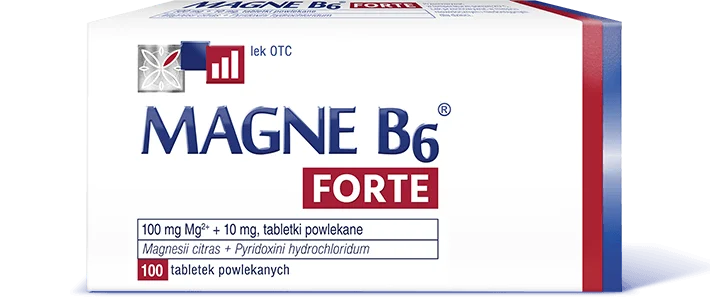
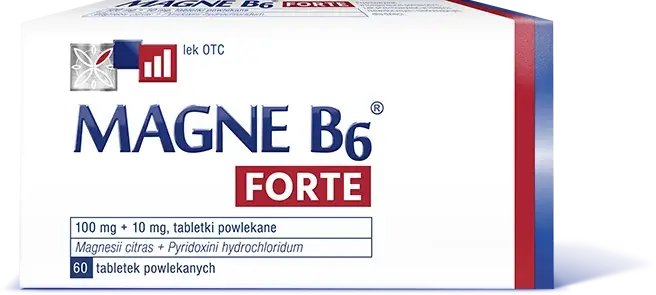
subst img, alt txts, kv packshot 60

Changed region(s): [[0.0915, 0.122, 0.6402, 0.7017], [0.122, 0.0, 0.9756, 1.0], [0.0, 0.7322, 0.6402, 1.0]]

diff --git a/index.html b/index.html
@@ -4,7 +4,7 @@
     <meta charset="UTF-8">
     <meta http-equiv="X-UA-Compatible" content="IE=edge">
     <meta name="viewport" content="width=device-width, initial-scale=1.0">
-    <title>Magne B6</title>
+    <title>Magne B6 60</title>
     <link rel="stylesheet" href="style.css" />
   </head>
   <body>
@@ -13,13 +13,12 @@
       <div class="es-kv">
         <div class="es-kv__container">
           <div class="es-kv__background">
-            <img src="./static/img/kv-bg.webp" loading="lazy" alt="" class="es-kv__img es-kv__bg">
+            <img src="./static/img/kv-bg.webp" loading="lazy" alt="Jaki magnez wybrać? Jaki magnez jest najlepiej przyswajalny? Taki, który zawiera cytrynian magnezu i wit B6." class="es-kv__img es-kv__bg">
           </div>
           <p class="es-kv__title">W Tobie <br> jest siła!</p>
           <p class="es-kv__subtitle">Wzmacniaj ją podwójną <br> dawką magnezu<sup class="es-index">6</sup></p>
           <div class="es-kv__packshot">
-            <img src="./static/img/kv-packshot.webp" loading="lazy" alt="Lek Magne B6 Forte uzupełnia poziom magnezu i pomaga radzić sobie z objawami niedoboru magnezu w organizmie" class="es-kv__img es-kv__img--packshot" />
-            <img src="./static/img/kv-badge.webp" loading="lazy" alt="Lek Magne B6 Forte, 100 tabletek powlekanych bez recepty - do kupienia w aptece internetowej i stacjonarnie w aptekach" class="es-kv__img es-kv__badge" />
+            <img src="./static/img/kv-packshot.webp" loading="lazy" alt="Leki na uspokojenie bez recepty online; magnez lek Magne B6 Forte, 60 tabletek powlekanych, na objawy niedoboru magnezu." class="es-kv__img es-kv__img--packshot" />
           </div>
         </div>
         <p class="es-kv__text">Magnez nr 1 w&nbsp;Polsce<sup class="es-index">1</sup></p>
@@ -36,23 +35,23 @@
       <div class="es-features">
         <div class="es-features__content">
           <div class="es-features__single">
-              <img src="./static/img/feature-1.webp" loading="lazy" alt="Dawkowanie magnezu Magne B6 Forte,100 tabletek: 6 do 8 tabletek na dobę w 2 lub 3 dawkach podzielonych" class="es-features__img">
-              <p class="es-features__text">Opakowanie Magne B<sub class="es-index">6</sub> Forte 100 tabletek wystarcza na miesiąc stosowania. </p>
+              <img src="./static/img/feature-1.webp" loading="lazy" alt="Na jak długo wystarczy jedno opakowanie leku Magne B6 Forte, 60 tabletek powlekanych na stres i nerwy?" class="es-features__img">
+              <p class="es-features__text">Opakowanie Magne B<sub class="es-index">6</sub> Forte 60 zawiera wysoce przyswajalny magnez<sup class="es-index">5</sup> (cytrynian magnezu).</p>
           </div>
           <div class="es-features__single">
-              <img src="./static/img/feature-2.webp" loading="lazy" alt="Magne B6 Forte i Magne B6 to leki z magnezem. Jeśli szukasz suplementu diety, wypróbuj Magne B6 Zmęczenie i Stres" class="es-features__img">
+              <img src="./static/img/feature-2.webp" loading="lazy" alt="Magnez B6 lek nie jest suplementem diety. Dostępny online, do kupienia w aptece internetowej." class="es-features__img">
               <p class="es-features__text">Magne B<sub class="es-index">6</sub> Forte jest lekiem, a nie suplementem diety. </p>
           </div>
           <div class="es-features__single">
-              <img src="./static/img/feature-3.webp" loading="lazy" alt="Lek Magne B6 Forte dostarcza największą dzienną dawkę magnezu w porównaniu z lekiem Magne B6" class="es-features__img">
+              <img src="./static/img/feature-3.webp" loading="lazy" alt="Magne B6 Forte, magnez w tabletkach dostarcza największą dzienną dawkę magnezu w porównaniu z lekiem Magne B6." class="es-features__img">
               <p class="es-features__text">Magne B<sub class="es-index">6</sub> Forte zawiera najwyższą dawkę magnezu.<sup class="es-index">3</sup></p>
           </div>
           <div class="es-features__single">
-              <img src="./static/img/feature-4.webp" loading="lazy" alt="Jaki jest dobry lek z magnezem dla dzieci? Wypróbuj Magne B6 Forte lub Magne B6, opakowanie zawiera 100 tabletek" class="es-features__img">
+              <img src="./static/img/feature-4.webp" loading="lazy" alt="Magnez lek bez recepty Magne B6 Forte na skurcze mięśni i niepokój to lek dla dorosłych i dla dzieci." class="es-features__img">
               <p class="es-features__text">Magne B<sub class="es-index">6</sub> Forte jest odpowiedni do stosowania u osób powyżej szóstego roku życia.</p>
           </div>
         </div>
-        <img src="./static/img/picture-1.webp" loading="lazy" alt="Uśmiechnięta rodzina. Lek Magne B6 Forte pomaga na objawy niedoboru magnezu. Do kupienia online w aptece internetowej" class="es-features__img">
+        <img src="./static/img/picture-1.webp" loading="lazy" alt="Jakie są dobre tabletki na stres i nerwy? Kup Magne B6 Forte na wahania nastroju, niepokój, drganie powiek i kołatanie serca." class="es-features__img">
       </div>
   
       <div class="es-benefits">
@@ -60,13 +59,13 @@
         <div class="es-benefits__content">
           <div class="es-benefits__single">
             <div class="es-benefits__circle">
-              <img src="./static/img/icon-1.webp" loading="lazy" alt="" class="es-benefits__icon">
+              <img src="./static/img/icon-1.webp" loading="lazy" alt="Magnez i witamina B6 w tabletkach, na objawy niedoboru magnezu, takie jak zaburzenia snu i łagodny lęk." class="es-benefits__icon">
             </div>
             <p class="es-benefits__text">chroni przed stresem <br> i&nbsp;zmęczeniem<sup class="es-index">8</sup></p>
           </div>
           <div class="es-benefits__single">
             <div class="es-benefits__circle">
-              <img src="./static/img/icon-2.webp" loading="lazy" alt="" class="es-benefits__img es-benefits__icon">
+              <img src="./static/img/icon-2.webp" loading="lazy" alt="Na ciągły stres i zmęczenie pomaga także ashwagandha, którą znajdziesz w suplemencie diety Magne B6 Zmęczenie i Stres." class="es-benefits__img es-benefits__icon">
             </div>
             <p class="es-benefits__text">poprawia pamięć <br> i&nbsp;koncentrację<sup class="es-index">8</sup></p>
           </div>
@@ -98,7 +97,7 @@
         <p class="es-symptoms__title">ZWRÓĆ UWAGĘ <br> NA MOŻLIWE OBJAWY <br> NIEDOBORU MAGNEZU</p>
           <div class="es-symptoms__container">
             <div class="es-symptoms__picture">
-              <img src="./static/img/human.webp" loading="lazy" alt="Jakie są objawy niedoboru magnezu? Lek Magne B6 Forte 100 tabletek do kupienia online w aptece internetowej" class="es-symptoms__img es-symptoms__human"/>
+              <img src="./static/img/human.webp" loading="lazy" alt="Brak magnezu - objawy. Na stres dobra jest aszwaganda zawarta w suplemencie diety Magne B6 Zmęczenie i Stres." class="es-symptoms__img es-symptoms__human"/>
             </div>
             <div class="es-symptoms__signs">
                 <p class="es-symptoms__sign es-symptoms__sign--1">Zaburzenia snu w&nbsp;niewielkim nasileniu <br><br>Mrowienie, drganie powiek<br><br>Wahania nastroju</p>
@@ -171,7 +170,7 @@
               <p class="es-dose__desc">Dorośli</p>
               <div class="es-dose__single">
                   <div class="es-dose__circle">
-                    <img src="./static/img/icon-7.webp" loading="lazy" alt="Jaka jest zalecana dzienna dawka magnezu Magne B6 Forte i Magne B6 dla dzieci i młodzieży? " class="es-dose__img es-dose__icon">
+                    <img src="./static/img/icon-7.webp" loading="lazy" alt="Jaki magnez wybrać? Jaka jest dzienna dawka magnezu dla dorosłych? Czy kawa wypłukuje magnez?" class="es-dose__img es-dose__icon">
                   </div>
                   <p class="es-dose__text"><span class="es-dose__span">3-4 </span>tabletki</p>
               </div>
@@ -180,14 +179,14 @@
               <p class="es-dose__desc">Dzieci i&nbsp;młodzież</p>
               <div class="es-dose__single">
                 <div class="es-dose__circle">
-                  <img src="./static/img/icon-7.webp" loading="lazy" alt="" class="es-dose__img es-dose__icon">
+                  <img src="./static/img/icon-7.webp" loading="lazy" alt="Magne B6 Forte 60 tabletek powlekanych. Magnez dla dzieci w tabletkach, dzienna dawka." class="es-dose__img es-dose__icon">
                 </div>
                 <p class="es-dose__text"><span class="es-dose__span">2-4 </span>tabletki</p>
               </div>
             </div>
           </div>
           <p class="es-dose__subtitle">Dawkowanie na dobę, w&nbsp;2-3 dawkach podzielonych, podczas posiłku<sup class="es-index">4</sup></p>
-          <img src="./static/img/picture-2.webp" loading="lazy" alt="Na zmęczenie i stres wypróbuj także adaptogeny takie, jak aszwaganda. Magne B6 Zmęczenie i Stres" class="es-dose__img">
+          <img src="./static/img/picture-2.webp" loading="lazy" alt="Magnez B6 lek na tyowe i nietypowe objawy niedoboru magnezu, takie jak skurcze mięśni, kołatanie serca i zmęczenie." class="es-dose__img">
           <div class="es-choose">
             <p class="es-choose__title">Jak wybrać <br> i&nbsp;prawidłowo <br> przyjmować magnez?</p>
             <div class="es-choose__content">
@@ -227,7 +226,7 @@
           <div class="es-ingredients__content">
             <div class="es-ingredients__single">
                 <div class="es-ingredients__circle">
-                  <img src="./static/img/icon-9.webp" loading="lazy" alt="" class="es-ingredients__icon">
+                  <img src="./static/img/icon-9.webp" loading="lazy" alt="Jaki magnez w tabletkach jest najlepiej przyswajalny? Magnez i witamina B6." class="es-ingredients__icon">
                 </div>
                 <p class="es-ingredients__text"><b>Wysoce przyswajalny <br> magnez<sup class="es-index">5</sup></b> – <span class="es-ingredients__span">2x więcej <br> magnezu</span> w&nbsp;1 tabletce<sup class="es-index">6</sup></p>
             </div>
@@ -291,17 +290,17 @@
           <p class="es-cross__subtitle">Sprawdź leki bez recepty</p>
           <div class="es-cross__content">
             <div class="es-cross__single">
-              <img src="./static/img/cross-1.webp" loading="lazy" alt="Magnez lek bez recepty, nie tylko na skurcze. Na braki magnezu pomaga Magne B6 Forte, 60 tabletek powlekanych" class="es-cross__img">
+              <img src="./static/img/cross-1.webp" loading="lazy" alt="Magne B6 Forte lek z magnezem w postaci tabletek powlekanych, 60 tabletek, do kupienia w aptece internetowej." class="es-cross__img">
               <p class="es-cross__name">Magne B<sub class="es-index">6</sub> FORTE <br> 100 tabl.</p>
               <a href="https://www.ceneo.pl/130891134" target="_blank" class="es-cross__btn">Sprawdź</a>
             </div>
             <div class="es-cross__single">
-              <img src="./static/img/cross-2.webp" loading="lazy" alt="Magnez lek bez recepty, nie tylko na skurcze. Na braki magnezu pomaga Magne B6 Forte, 60 tabletek powlekanych" class="es-cross__img">
+              <img src="./static/img/cross-2.webp" loading="lazy" alt="Jakie leki na uspokojenie bez recepty? Magne B6 Forte bez recepty na objawy niedoboru magnezu: łagodny lęk i niepokój." class="es-cross__img">
               <p class="es-cross__name">Magne B<sub class="es-index">6</sub> FORTE <br> 60 tabl.</p>
               <a href="https://www.ceneo.pl/59150522" target="_blank" class="es-cross__btn">Sprawdź</a>
             </div>
             <div class="es-cross__single">
-              <img src="./static/img/cross-3.webp" loading="lazy" alt="Leki z magnezem pomagają na objawy niedoboru magnezu: kołatanie serca, lęk i drganie powiek. Do kupienia w aptece internetowej" class="es-cross__img">
+              <img src="./static/img/cross-3.webp" loading="lazy" alt="Uzupełnij poziom magnezu dzięki Magne B6 Forte, 60 tabletek na uspokojenie bez recepty. Do kupienia online w aptece." class="es-cross__img">
               <p class="es-cross__name">Magne B<sub class="es-index">6</sub> <br> 100 tabl.</p>
               <a href="https://www.ceneo.pl/116158638" target="_blank" class="es-cross__btn">Sprawdź</a>
             </div>
@@ -309,7 +308,7 @@
           <p class="es-cross__subtitle">Sprawdź suplement diety</p>
           <div class="es-cross__content">
             <div class="es-cross__single">
-              <img src="./static/img/cross-4.webp" loading="lazy" alt="Ashwagandha, co to jest? Sprawdź suplement diety Magne B6 Zmęczenie i Stres 30 tabletek powlekanych" class="es-cross__img">
+              <img src="./static/img/cross-4.webp" loading="lazy" alt="Suplement diety Magne B6 Forte Zmęczenie i Stres zawiera adaptogen. Ashwagandha co to jest? Dowiedz się więcej." class="es-cross__img">
               <p class="es-cross__name">Magne-B<sub class="es-index">6</sub> ZMĘCZENIE I&nbsp;STRES <br> 30 tabl.</p>
               <a href="https://www.ceneo.pl/101909442" target="_blank" class="es-cross__btn" href >Sprawdź</a> 
             </div>
